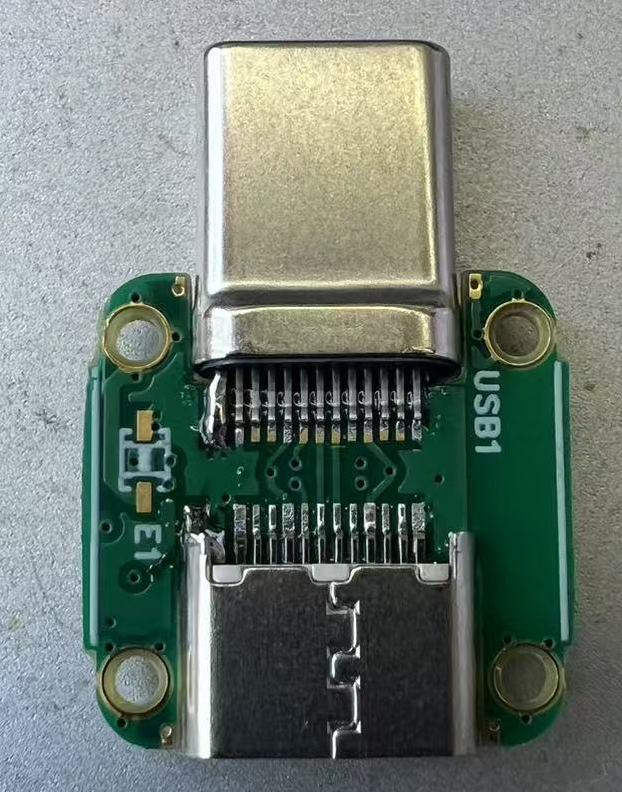
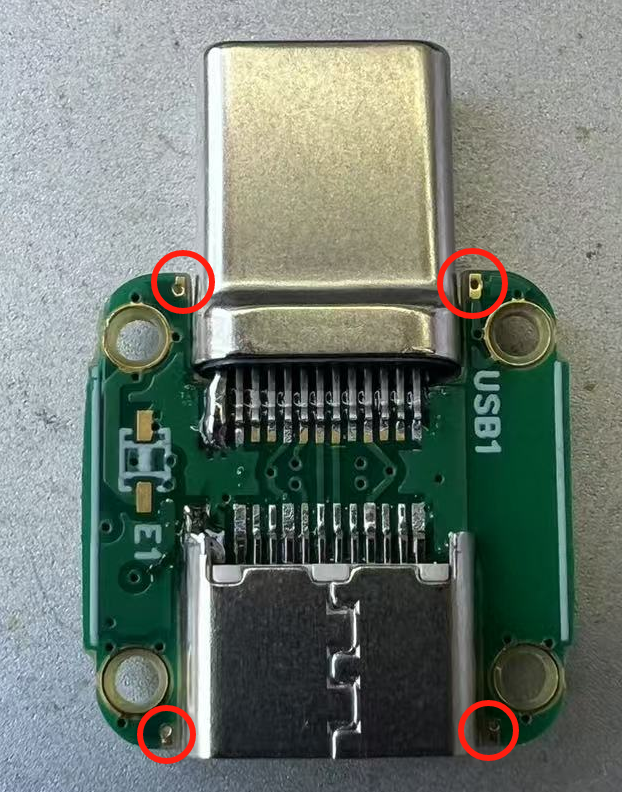
更新PCBA文档，增加Type-C焊接步骤和注意事项，优化内容格式

diff --git a/docs/zh_CN/hw-guides/PCBA.md b/docs/zh_CN/hw-guides/PCBA.md
@@ -112,6 +112,8 @@ PCB由三块小板拼接而成，第一步要先将他们分开。
 
 ### 3. 焊接其他
 
+::::::{card}
+
 将主控板上的其他元器件焊接好。可以通过回流焊将 IMU、LDO、电阻电容等元器件焊接到位。
 
 同时，将蜂鸣器所在的板子一起回流焊。此块板子焊接难度较低，也可选择手焊。
@@ -142,18 +144,26 @@ PCB由三块小板拼接而成，第一步要先将他们分开。
 ::::
 :::::
 
-接下来焊接 Type-C 板。需要使用锡膏，给引脚上锡后，将 Type-C 公头和母头分别插入板槽内，然后使用热吹风进行焊接。
+::::::
 
-:::::{grid} 1 2 3 3
+
+:::::::{card}
+接下来**焊接 Type-C 板**。需要使用锡膏，给引脚上锡后，将 Type-C 公头和母头分别插入板槽内，然后使用热吹风进行焊接。
+
+接着使用电烙铁，给 Type-C 头焊接加固点。板上边缘贴近 Type-C 槽处预留了加固焊盘（红圈所示）。
+
+::::::{grid} 1 1 2 2
 
 ::::{grid-item}
 :::{tip}
 Type-C 引脚处**锡膏量不宜过多**，否则容易连锡。
 
-锡膏建议涂在**远离针脚根部一端**，焊接时锡会自动爬到针脚上。  
-锡膏涂在根部容易连锡。
+锡膏建议涂在**远离针脚根部一端**，焊接时锡会自动爬到针脚上。锡膏涂在根部容易连锡。
 :::
 ::::
+
+:::::{grid-item}
+::::{grid} 2
 
 :::{grid-item}
 ![board2_solder]( ../../_static/PCB_board2_solder.png){.bg-primary align=center}
@@ -163,9 +173,17 @@ Type-C 引脚处**锡膏量不宜过多**，否则容易连锡。
 ![board2]( ../../_static/PCB_board2.png){.bg-primary align=center}
 :::
 
+::::
 :::::
 
+::::::
+
+:::::::
+
+至此，PCB 的焊接部分已完成。
+
 ![3boards]( ../../_static/PCB_3boards.png){.bg-primary align=center}
+
 
 ### 4. 烧录初始固件
 
